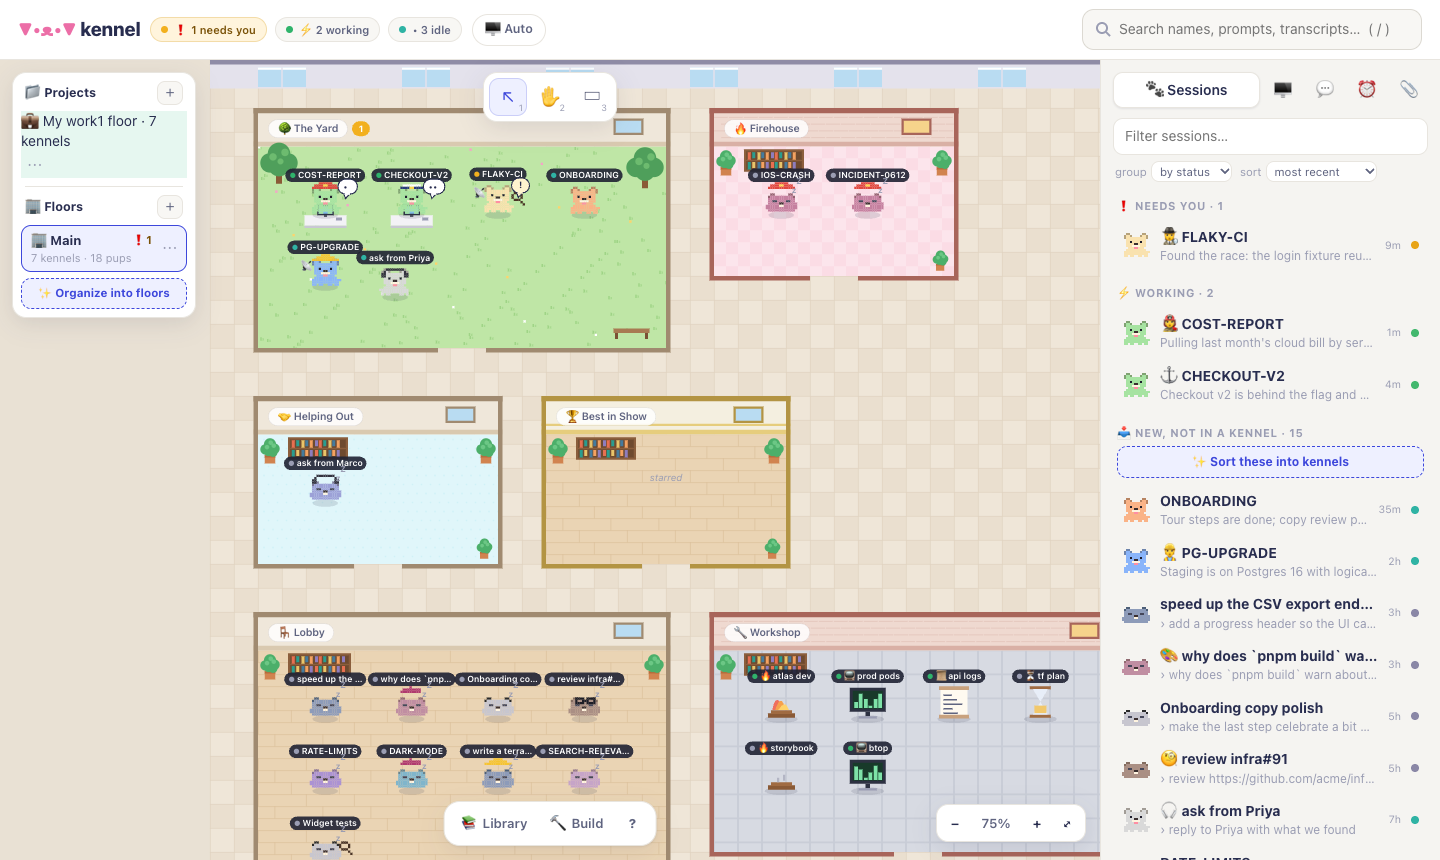
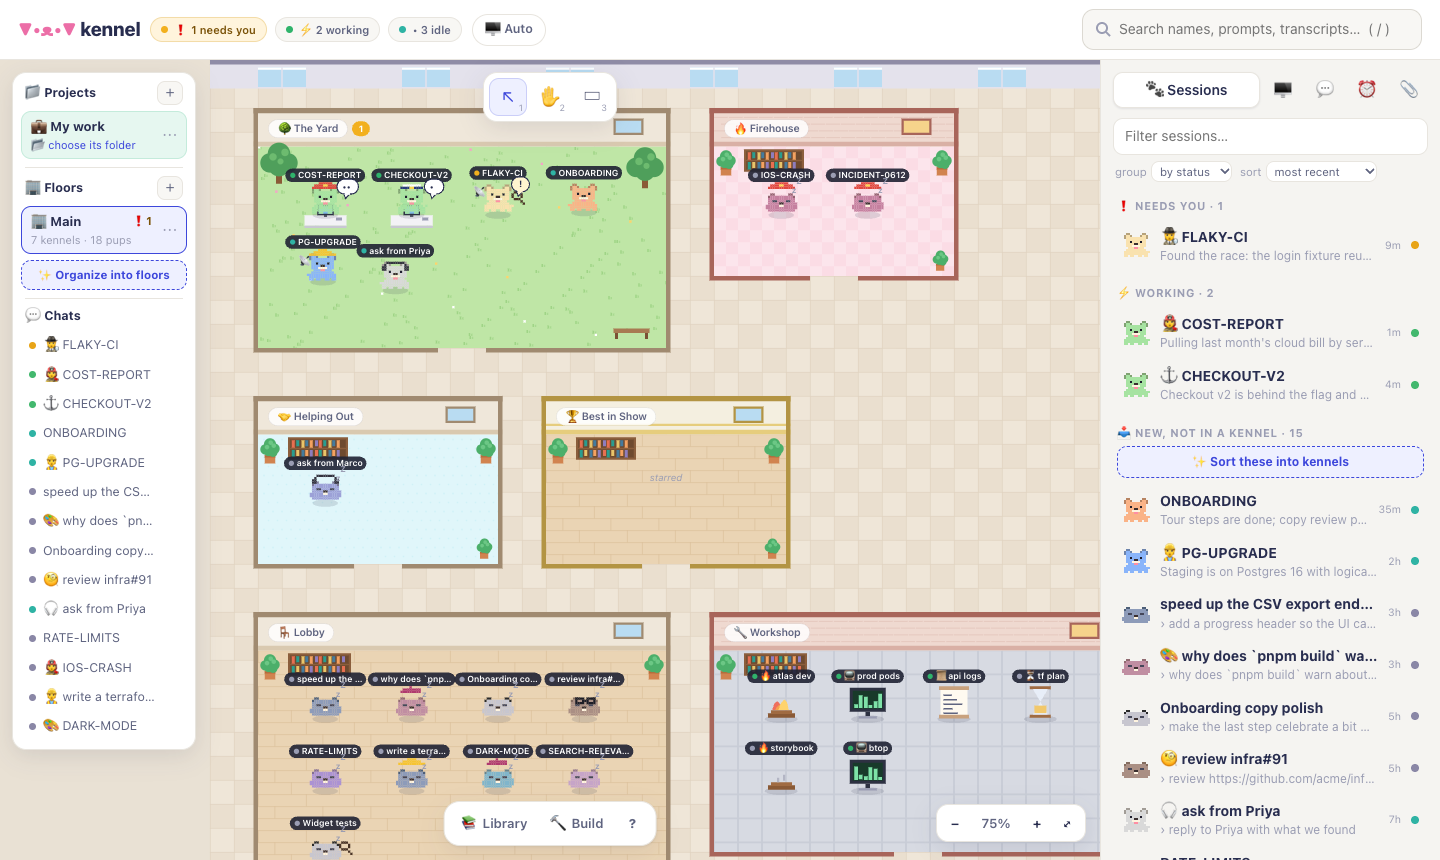
Pups talk to each other; objects only hold the pups you put there
- Drag one pup onto another (or right-click → Pass latest reply to…) to hand
  it the first one's latest reply and your note: typed into its panel terminal
  (bracketed paste) or herdr pane, or an asleep session wakes in the panel with
  it as the first prompt; otherwise it lands on the clipboard. The sender walks
  over, an envelope flies, and handoffs show as dotted lines for a day.
- Panel terminal start is shared and takes a first prompt.
- Room objects only capture pups you placed in them.
- README: talking, room objects, chats, and a roadmap.

diff --git a/internal/web/static/app.js b/internal/web/static/app.js
@@ -1447,6 +1447,15 @@ function spotIn(r, ent) {
 // they're filed there; anywhere else they walk back.
 async function dropPups(d, w) {
   app.dropRoom = null;
+  if (d.group.length === 1 && d.ent.kind === "pup") {
+    const onto = pupNear(w, d.ent.id);
+    if (onto) {
+      d.ent.dragging = false;
+      if (d.ent.home) { d.ent.tx = d.ent.home.x; d.ent.ty = d.ent.home.y; }
+      openHandoff(d.ent.id, onto.id);
+      return;
+    }
+  }
   const target = roomAt(w.x, w.y);
   const items = d.group.filter((g) => g.ent.kind === "item");
   if (items.length) {
@@ -1508,6 +1517,70 @@ async function dropItems(group, target) {
     return;
   }
   for (const g of group) { const t = itemOf(g.ent.id); if (t) await pinTo(0, t); }
+}
+
+const pupNear = (w, except) => {
+  let best = null, bd = 1.1;
+  for (const e of app.ents.values()) {
+    if (e.kind !== "pup" || e.id === except) continue;
+    const d = Math.hypot(e.x - w.x, e.y - 0.4 - w.y);
+    if (d < bd) { bd = d; best = e; }
+  }
+  return best;
+};
+
+// Passing one session's latest reply to another: the sender walks over, an envelope
+// flies, and the two stay linked by a dotted line for a day.
+async function openHandoff(fromId, toId) {
+  const from = pupOf(fromId), to = pupOf(toId);
+  if (!from || !to) return;
+  const note = prompt(`📨 Pass ${from.title}'s latest reply to ${to.title}.\nAdd a note for ${to.title} (optional):`, "");
+  if (note === null) return;
+  const a = app.ents.get(fromId), b = app.ents.get(toId);
+  if (a && b) {
+    a.visit = { x: b.x + (a.x < b.x ? -1.2 : 1.2), y: b.y, until: app.t + 3 };
+    (app.flights = app.flights || []).push({ from: fromId, to: toId, t0: app.t });
+  }
+  try {
+    const out = await (await api(`/api/pup/${toId}/handoff`, { method: "POST", body: JSON.stringify({ from: fromId, note }) })).json();
+    if (!out.reached && out.text) { try { await navigator.clipboard.writeText(out.text); } catch (_) {} }
+    await loadState();
+    if (out.term) { select(toId, false); showTab("term"); }
+    toast(out.message);
+  } catch (e) { toast(e.message, true); }
+}
+
+function drawHandoffs() {
+  const seen = new Set();
+  for (const h of (app.state && app.state.handoffs) || []) {
+    const a = app.ents.get(h.from), b = app.ents.get(h.to);
+    const key = [h.from, h.to].sort().join(":");
+    if (!a || !b || seen.has(key)) continue;
+    seen.add(key);
+    const fresh = Math.max(0.25, 1 - (app.state.now - h.at) / 864e5);
+    const ax = a.x * TILE, ay = (a.y - 0.6) * TILE, bx = b.x * TILE, by = (b.y - 0.6) * TILE;
+    const mx = (ax + bx) / 2, my = Math.min(ay, by) - 40;
+    ctx.save();
+    ctx.globalAlpha = 0.55 * fresh;
+    ctx.strokeStyle = "#3d47db"; ctx.lineWidth = 2; ctx.setLineDash([5, 6]);
+    ctx.beginPath(); ctx.moveTo(ax, ay); ctx.quadraticCurveTo(mx, my, bx, by); ctx.stroke();
+    ctx.setLineDash([]); ctx.globalAlpha = fresh;
+    ctx.font = "14px system-ui"; ctx.textAlign = "center"; ctx.fillStyle = "#000";
+    ctx.fillText("✉", (ax + 2 * mx + bx) / 4, (ay + 2 * my + by) / 4 + 5);
+    ctx.restore();
+  }
+  app.flights = (app.flights || []).filter((f) => app.t - f.t0 < 1.6);
+  for (const f of app.flights) {
+    const a = app.ents.get(f.from), b = app.ents.get(f.to);
+    if (!a || !b) continue;
+    const t = Math.min(1, (app.t - f.t0) / 1.4);
+    const ax = a.x * TILE, ay = (a.y - 1) * TILE, bx = b.x * TILE, by = (b.y - 1) * TILE;
+    const mx = (ax + bx) / 2, my = Math.min(ay, by) - 80;
+    const x = (1 - t) * (1 - t) * ax + 2 * (1 - t) * t * mx + t * t * bx, y = (1 - t) * (1 - t) * ay + 2 * (1 - t) * t * my + t * t * by;
+    ctx.font = "22px system-ui"; ctx.textAlign = "center"; ctx.fillStyle = "#000";
+    ctx.fillText("✉", x, y);
+    ctx.textAlign = "left";
+  }
 }
 
 const inKennel = (id) => { const e = app.ents.get(id); return isOwnKennel(e && e.room); };
@@ -1608,6 +1681,10 @@ function pupMenu(ent) {
     items.push(["🖥 Terminal", () => { select(ent.id, false); showTab("term"); }], ["↗ Open in a tab", () => act("open", ent.id)], ["⑂ Fork", () => act("fork", ent.id)],
       [p && p.starred ? "☆ Unstar" : "★ Star", () => act("star", ent.id)],
       ["✎ Rename…", () => { const t = prompt("Rename", p ? p.title : ""); if (t) act("rename", ent.id, { title: t }); }]);
+  }
+  if (ids.length === 1) {
+    const others = app.state.tray.filter((id) => id !== ent.id).map(pupOf).filter(Boolean).slice(0, 12);
+    items.push(["📨 Pass latest reply to…", () => showMenu({ clientX: 260, clientY: 140 }, others.map((o) => [`${ROLES[o.role] ? ROLES[o.role].icon + " " : ""}${o.title}`, () => openHandoff(ent.id, o.id)]))]);
   }
   const kennels = ownKennels();
   if (kennels.length) items.push(["—"], ...kennels.slice(0, 12).map((k) => [`→ ${k.icon || "🏠"} ${k.name}`, async () => { for (const id of ids) await act("move", id, { kennel: k.id }); toast(`🏠 filed ${ids.length > 1 ? ids.length + " pups " : ""}into ${k.name}`, false, true); app.multi.clear(); }]));
@@ -2059,12 +2136,14 @@ function step(dt) {
     if (e.kind !== "pup") continue;
     const p = pupOf(e.id);
     if (!p || e.dragging) continue;
-    const wanders = (p.status === "idle" || p.status === "done") && !propMode(e);
+    if (e.visit && app.t < e.visit.until) { e.tx = e.visit.x; e.ty = e.visit.y; }
+    else if (e.visit) { e.visit = null; e.tx = e.home.x; e.ty = e.home.y; }
+    const wanders = (p.status === "idle" || p.status === "done") && !propMode(e) && !e.visit;
     if (wanders && Math.hypot(e.tx - e.x, e.ty - e.y) < 0.05 && Math.random() < dt * 0.5) {
       e.tx = e.home.x + (Math.random() - 0.5) * 1.8;
       e.ty = e.home.y + (Math.random() - 0.5) * 1.0;
     }
-    if (!wanders) { e.tx = e.home.x; e.ty = e.home.y; }
+    if (!wanders && !e.visit) { e.tx = e.home.x; e.ty = e.home.y; }
     const dx = e.tx - e.x, dy = e.ty - e.y, d = Math.hypot(dx, dy);
     e.moving = d > 0.05;
     if (e.moving) {
@@ -2306,10 +2385,10 @@ function propBox(r, pr) {
   return { x: b.x + pr.x * b.w, y: b.y + pr.y * b.h, w: pr.w * b.w, h: pr.h * b.h };
 }
 
-// The prop a pup was put in, judged by where it was placed.
+// The prop a pup was put in: only pups you placed count, not ones whose slot an object covers.
 function propOf(e) {
   const r = e.room;
-  if (!r || !r.style || !r.style.props || !e.home) return null;
+  if (!r || !r.style || !r.style.props || !e.home || !(r.style.spots || {})[e.id]) return null;
   for (const pr of r.style.props) {
     const b = propBox(r, pr);
     if (e.home.x >= b.x && e.home.x <= b.x + b.w && e.home.y >= b.y && e.home.y <= b.y + b.h + 0.4) return pr;
@@ -2703,6 +2782,7 @@ function render() {
   for (const e of ents) {
     if (e.kind === "pup") drawPup(e); else if (e.kind === "item") drawItem(e); else drawThing(e);
   }
+  drawHandoffs();
   drawDropHover();
   drawOverlays();
   if (!app.rooms.length) {
@@ -3538,9 +3618,12 @@ window.kennel = {
   termText: () => {
     const b = termUI.xterm && termUI.xterm.buffer.active;
     if (!b) return "";
-    const out = [];
-    for (let i = 0; i < b.length; i++) out.push(b.getLine(i).translateToString(true));
-    return out.join("\n");
+    let out = "";
+    for (let i = 0; i < b.length; i++) {
+      const line = b.getLine(i);
+      out += (i && !line.isWrapped ? "\n" : "") + line.translateToString(true);
+    }
+    return out;
   },
   markdown,
   setAppearance: async (a) => { applyAppearance(a); await api("/api/appearance", { method: "POST", body: JSON.stringify({ appearance: a }) }); },

diff --git a/internal/web/web.go b/internal/web/web.go
@@ -401,6 +401,8 @@ type StateJSON struct {
 	Pups      map[string]PupJSON `json:"pups"`
 	// Tray lists recent and live pups from every floor, newest first, for the side panel.
 	Tray []string `json:"tray"`
+	// Handoffs are the last day's passes between sessions, drawn as lines.
+	Handoffs []HandoffJSON `json:"handoffs"`
 	// Where maps each pup to the floor it stands on in this project, for jumping to it.
 	Where    map[string]int64     `json:"where"`
 	Projects []ProjectJSON        `json:"projects"`
@@ -425,6 +427,12 @@ type KennelJSON struct {
 	Icon  string `json:"icon"`
 	Floor int64  `json:"floor"`
 	Smart string `json:"smart"`
+}
+
+type HandoffJSON struct {
+	From string `json:"from"`
+	To   string `json:"to"`
+	At   int64  `json:"at"`
 }
 
 type SpaceJSON struct {
@@ -508,7 +516,12 @@ func furColor(id, c string) string {
 func (s *Server) State(space string, fl int64) StateJSON {
 	st := StateJSON{Version: s.Version(), Now: s.App.Now().UnixMilli(), Pups: map[string]PupJSON{}, Things: map[string]ThingJSON{},
 		Counts: map[string]int{}, Demo: s.App.Cfg.Demo, Floors: []FloorJSON{}, Tray: []string{}, Projects: []ProjectJSON{}, Rooms: []RoomJSON{},
-		Prefs: map[string]string{}, Spaces: []SpaceJSON{}, Where: map[string]int64{}}
+		Prefs: map[string]string{}, Spaces: []SpaceJSON{}, Where: map[string]int64{}, Handoffs: []HandoffJSON{}}
+	if hs, err := s.App.Store.Handoffs(s.App.Now().Add(-24 * time.Hour)); err == nil {
+		for _, h := range hs {
+			st.Handoffs = append(st.Handoffs, HandoffJSON{h.From, h.To, h.At.UnixMilli()})
+		}
+	}
 	space, floors, _ := s.App.OpenSpace(space)
 	st.Space = space
 	if sp, ok := s.App.Space(space); ok {
@@ -773,6 +786,8 @@ func (s *Server) handlePupAction(w http.ResponseWriter, r *http.Request) {
 		Title  string   `json:"title"`
 		Role   string   `json:"role"`
 		Fur    string   `json:"fur"`
+		From   string   `json:"from"`
+		Note   string   `json:"note"`
 		Cwd    string   `json:"cwd"`
 		With   []string `json:"with"`
 		Agent  string   `json:"agent"`
@@ -844,6 +859,14 @@ func (s *Server) handlePupAction(w http.ResponseWriter, r *http.Request) {
 		}
 	case "look":
 		err = s.App.SetLook(p.ID, body.Role, body.Fur)
+	case "handoff":
+		var reached bool
+		var text string
+		if msg, reached, text, err = s.passOn(p, s.App.Pup(body.From), body.Note); err == nil {
+			s.touch()
+			writeJSON(w, map[string]any{"ok": true, "message": msg, "reached": reached, "text": text, "term": s.Terms.Get(p.ID) != nil})
+			return
+		}
 	case "move":
 		err = s.App.MoveTo(p.ID, body.Kennel)
 		msg = "🚚 moved " + p.Title()
@@ -1494,31 +1517,8 @@ func (s *Server) handleTerm(w http.ResponseWriter, r *http.Request) {
 			fail(w, errors.New("no such session"), http.StatusNotFound)
 			return
 		}
-		// A session live in another terminal may run here too: a second resume of the
-		// same conversation is what you asked for when you press Continue here.
-		tg := floor.TargetFor(s.App, p, false, false)
-		if err := s.App.CheckCwd(tg.Cwd); err != nil {
+		if err := s.startTerm(p, "", body.Cols, body.Rows); err != nil {
 			fail(w, err, http.StatusBadRequest)
-			return
-		}
-		bin, args := tg.Command()
-		line := opener.CommandLine(bin, args)
-		shell := os.Getenv("SHELL")
-		if shell == "" {
-			shell = "/bin/zsh"
-		}
-		cmdArgs := []string{"-l", "-c", line}
-		// Demo and tests never start a real agent: the terminal says what it would run and echoes.
-		if s.App.Cfg.Demo || opener.Resolve(s.App.Cfg.Opener) == opener.Print {
-			shell, cmdArgs = "/bin/sh", []string{"-c", "printf '%s\\n' " + shellQuote("would run: "+line) + "; exec cat"}
-		}
-		var err error
-		dir := tg.Cwd
-		if _, err := os.Stat(dir); err != nil {
-			dir, _ = os.UserHomeDir() // demo sessions point at folders that don't exist
-		}
-		if _, err = s.Terms.Start(id, dir, shell, cmdArgs, nil, body.Cols, body.Rows); err != nil {
-			fail(w, err, http.StatusInternalServerError)
 			return
 		}
 		s.touch()
@@ -1710,4 +1710,59 @@ func (s *Server) handleSpace(w http.ResponseWriter, r *http.Request) {
 	}
 	s.touch()
 	writeJSON(w, map[string]bool{"ok": true})
+}
+
+// startTerm resumes a session in the panel's terminal, with an optional first prompt.
+// A session live in another terminal may run here too: a second resume of the same
+// conversation is what you asked for when you press Continue here.
+func (s *Server) startTerm(p *pack.Pup, prompt string, cols, rows int) error {
+	tg := floor.TargetFor(s.App, p, false, false)
+	tg.Prompt = prompt
+	if err := s.App.CheckCwd(tg.Cwd); err != nil {
+		return err
+	}
+	bin, args := tg.Command()
+	line := opener.CommandLine(bin, args)
+	shell := os.Getenv("SHELL")
+	if shell == "" {
+		shell = "/bin/zsh"
+	}
+	cmdArgs := []string{"-l", "-c", line}
+	// Demo and tests never start a real agent: the terminal says what it would run and echoes.
+	if s.App.Cfg.Demo || opener.Resolve(s.App.Cfg.Opener) == opener.Print {
+		shell, cmdArgs = "/bin/sh", []string{"-c", "printf '%s\\n' " + shellQuote("would run: "+line) + "; exec cat"}
+	}
+	dir := tg.Cwd
+	if _, err := os.Stat(dir); err != nil {
+		dir, _ = os.UserHomeDir() // demo sessions point at folders that don't exist
+	}
+	_, err := s.Terms.Start(p.ID, dir, shell, cmdArgs, nil, cols, rows)
+	return err
+}
+
+// passOn passes one session's latest reply (and your note) to another, wherever
+// kennel can reach it. reached is false when the text has to be pasted by hand.
+func (s *Server) passOn(to, from *pack.Pup, note string) (msg string, reached bool, text string, err error) {
+	if from == nil || from.ID == to.ID {
+		return "", false, "", errors.New("pick another session to pass from")
+	}
+	text = opener.SafeArg(s.App.HandoffText(from, note))
+	switch t := s.Terms.Get(to.ID); {
+	case t != nil:
+		// Bracketed paste keeps it one message.
+		err = t.Write([]byte("\x1b[200~" + text + "\x1b[201~\r"))
+		msg, reached = fmt.Sprintf("📨 %s → %s, in its terminal", from.Title(), to.Title()), true
+	case to.Status.Live() && to.Pane != "":
+		err = opener.Prompt(s.App.Cfg.Runner, to.Pane, text)
+		msg, reached = fmt.Sprintf("📨 %s → %s, in its pane", from.Title(), to.Title()), true
+	case !to.Status.Live() && to.AgentKind() == "claude":
+		err = s.startTerm(to, text, 100, 30)
+		msg, reached = fmt.Sprintf("📨 %s woke up with what %s found", to.Title(), from.Title()), true
+	default:
+		msg = fmt.Sprintf("📋 %s runs where kennel can't type: the message is on your clipboard", to.Title())
+	}
+	if err == nil {
+		_ = s.App.RecordHandoff(from.ID, to.ID)
+	}
+	return msg, reached, text, err
 }

diff --git a/internal/app/handoff.go b/internal/app/handoff.go
@@ -1,0 +1,37 @@
+package app
+
+import (
+	"fmt"
+	"strings"
+
+	"github.com/razkevich/kennel/internal/claude"
+	"github.com/razkevich/kennel/internal/pack"
+	"github.com/razkevich/kennel/internal/store"
+)
+
+// HandoffText is what one session tells another: your note, then the sender's
+// latest reply (trimmed) so the receiver has the context.
+func (a *App) HandoffText(from *pack.Pup, note string) string {
+	var last string
+	if chunks, err := a.Store.Chunks(from.ID); err == nil {
+		for i := len(chunks) - 1; i >= 0; i-- {
+			if chunks[i].Role == claude.RoleAssistant && strings.TrimSpace(chunks[i].Text) != "" {
+				last = strings.TrimSpace(chunks[i].Text)
+				break
+			}
+		}
+	}
+	if last == "" {
+		last = from.Snippet()
+	}
+	last = clip(last, 1500)
+	note = strings.TrimSpace(note)
+	if note == "" {
+		note = "Here's what another session found; take it into account."
+	}
+	return fmt.Sprintf("%s\n\nFrom the session \"%s\":\n%s", note, from.Title(), last)
+}
+
+func (a *App) RecordHandoff(from, to string) error {
+	return a.Store.SaveHandoff(store.Handoff{From: from, To: to, At: a.Now()})
+}

diff --git a/internal/store/handoffs.go b/internal/store/handoffs.go
@@ -1,0 +1,34 @@
+package store
+
+import "time"
+
+// Handoff is one session passing something to another, drawn as a line between them.
+type Handoff struct {
+	From string
+	To   string
+	At   time.Time
+}
+
+func (s *Store) SaveHandoff(h Handoff) error {
+	_, err := s.DB.Exec(`INSERT INTO handoffs(from_id, to_id, at) VALUES(?,?,?)`, h.From, h.To, h.At.UnixMilli())
+	return err
+}
+
+func (s *Store) Handoffs(since time.Time) ([]Handoff, error) {
+	rows, err := s.DB.Query(`SELECT from_id, to_id, at FROM handoffs WHERE at >= ? ORDER BY at`, since.UnixMilli())
+	if err != nil {
+		return nil, err
+	}
+	defer rows.Close()
+	var out []Handoff
+	for rows.Next() {
+		var h Handoff
+		var at int64
+		if err := rows.Scan(&h.From, &h.To, &at); err != nil {
+			return nil, err
+		}
+		h.At = time.UnixMilli(at)
+		out = append(out, h)
+	}
+	return out, rows.Err()
+}

diff --git a/internal/store/store.go b/internal/store/store.go
@@ -49,6 +49,12 @@ func (s *Store) Close() error { return s.DB.Close() }
 
 const metaSchema = `
 CREATE TABLE IF NOT EXISTS kv(k TEXT PRIMARY KEY, v TEXT);
+CREATE TABLE IF NOT EXISTS handoffs(
+	id INTEGER PRIMARY KEY,
+	from_id TEXT NOT NULL,
+	to_id TEXT NOT NULL,
+	at INTEGER NOT NULL
+);
 CREATE TABLE IF NOT EXISTS spaces(
 	id INTEGER PRIMARY KEY,
 	name TEXT NOT NULL,
